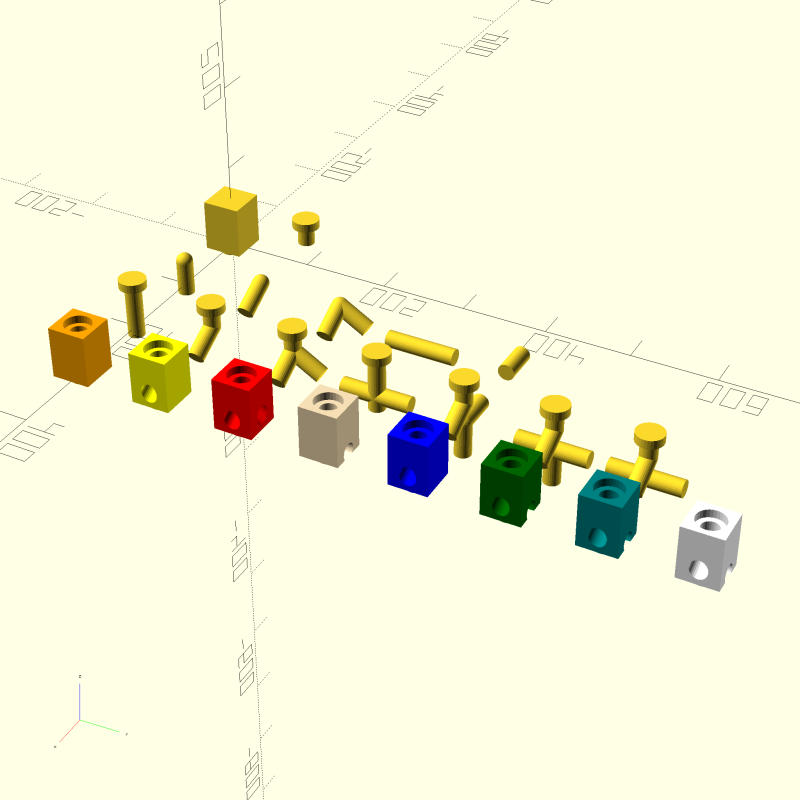
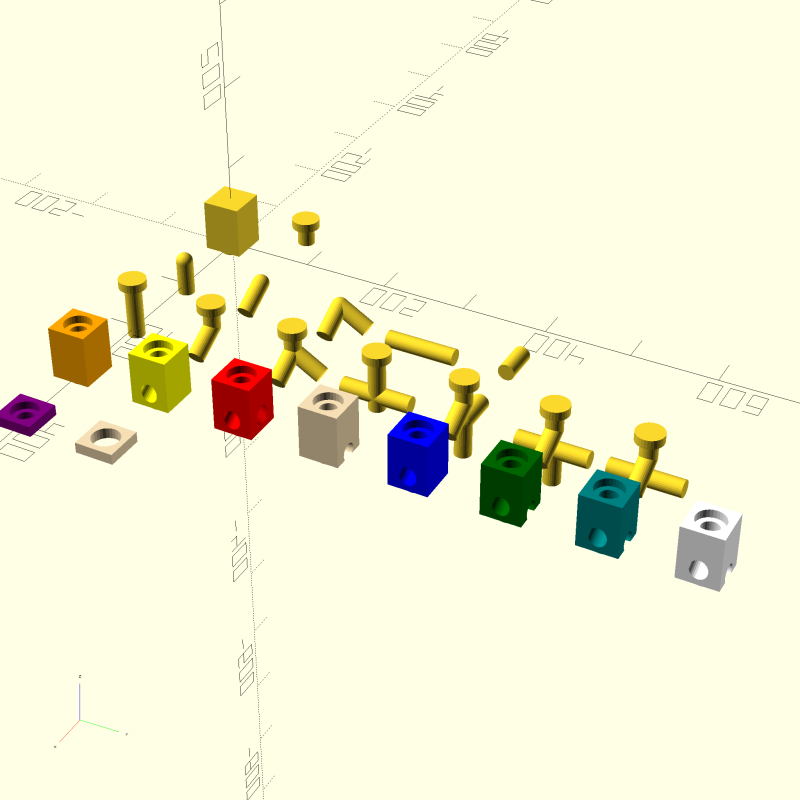
mini blocks and curve bridges

Changed region(s): [[0.0938, 0.5312, 0.1875, 0.5938], [0.0, 0.5, 0.0938, 0.5625]]

diff --git a/parts/README.md b/parts/README.md
@@ -26,8 +26,9 @@ Yellow block
 
 ![blocks render](./blocks.png)
 
-    mini  wood
-    mini  purple
+    MiniPurpleBlock
+    MiniWhiteBlock
+
     BlueBlock
     GreenBlock
     OrangeBlock
@@ -42,13 +43,15 @@ Yellow block
     clacker blue
     clacker white
 
-Ramps
+Bridges
 -----
-Ramps connect between one stack and another. They determine or constrain the distances/placement of the stacks
+Bridges connect between one stack and another. They determine or constrain the distances/placement of the stacks
 
-* semicircle 2
-* semicircle 3
-* s-curve
+![ramps render](./bridges.png)
+
+* Curve2
+* Curve3
+* SCurve
 * spiral
 
 Special
